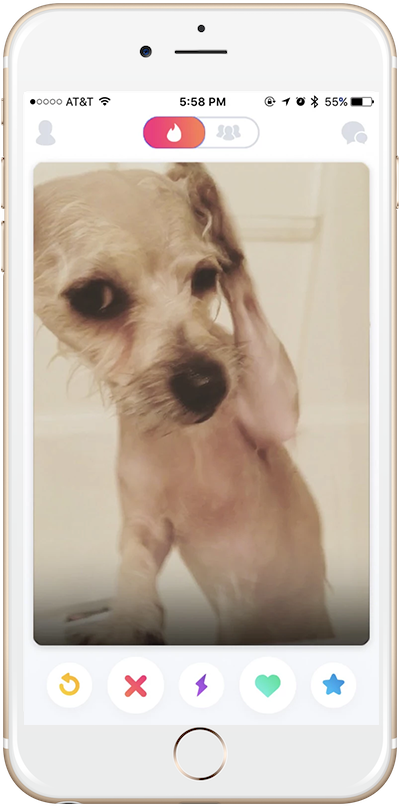
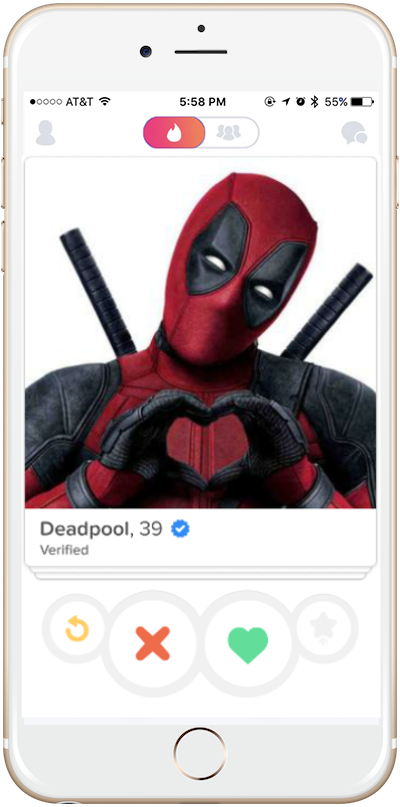
Add files via upload

diff --git a/index.html b/index.html
@@ -3,7 +3,7 @@
 
 <head>
   <meta charset="utf-8">
-  <title>TinDog</title>
+  <title>TinDoor</title>
   <!-- CSS only -->
   <link href="https://cdn.jsdelivr.net/npm/bootstrap@5.0.0-beta2/dist/css/bootstrap.min.css" rel="stylesheet" integrity="sha384-BmbxuPwQa2lc/FVzBcNJ7UAyJxM6wuqIj61tLrc4wSX0szH/Ev+nYRRuWlolflfl" crossorigin="anonymous">
   <!-- google fonts -->
@@ -30,7 +30,7 @@
 
       <!-- Nav Bar -->
       <nav class="navbar navbar-expand-lg navbar-dark">
-        <a class="navbar-brand" href="">tindog</a>
+        <a class="navbar-brand" href="">tindoor</a>
         <button class="navbar-toggler" type="button" data-bs-toggle="collapse" data-bs-target="#navbarSupportedContent" aria-controls="navbarSupportedContent" aria-expanded="false" aria-label="Toggle navigation">
           <span class="navbar-toggler-icon"></span></button>
         <div class="collapse navbar-collapse" id="navbarSupportedContent">
@@ -54,7 +54,7 @@
 
       <div class="row">
         <div class="col-lg-6">
-          <h1>Meet new and interesting dogs nearby.</h1>
+          <h1>Meet new and interesting super-heroes nearby.</h1>
           <button type="button" class="btn btn-dark btn-lg download-button"><i class="fab fa-apple"></i> Download</button>
           <button type="button" class="btn btn-outline-light btn-lg download-button"><i class="fab fa-google-play"></i> Download</button>
         </div>
@@ -79,12 +79,12 @@
       <div class="feature-box col-lg-4">
         <i class="icon fas fa-bullseye fa-4x"></i>
         <h3>Elite Clientele</h3>
-        <p>We have all the dogs, the greatest dogs.</p>
+        <p>We have all heroes, the greatest heroes.</p>
       </div>
       <div class="feature-box col-lg-4">
         <i class="icon fas fa-heart fa-4x"></i>
         <h3>Guaranteed to work.</h3>
-        <p>Find the love of your dog's life or your money back.</p>
+        <p>Find the love of you or your money back.</p>
       </div>
     </div>
   </section>
@@ -97,14 +97,14 @@
     <div id="testimonial-carousel" class="carousel slide" data-ride="false">
       <div class="carousel-inner">
         <div class="carousel-item active">
-          <h2>I no longer have to sniff other dogs for love. I've found the hottest Corgi on TinDog. Woof.</h2>
-          <img class="testimonial-image" src="images/dog-img.jpg" alt="dog-profile">
-          <em>Pebbles, New York</em>
+          <h2>I no longer have to create an AI robot for love. I've found Pepper potts on TinDoor.</h2>
+          <img class="testimonial-image" src="images/ironman.png" alt="hero-profile">
+          <em>Tony stark, California</em>
         </div>
         <div class="carousel-item">
-          <h2 class="testimonial-text">My dog used to be so lonely, but with TinDog's help, they've found the love of their life. I think.</h2>
-          <img class="testimonial-image" src="images/lady-img.jpg" alt="lady-profile">
-          <em>Beverly, Illinois</em>
+          <h2 class="testimonial-text">I used to be so lonely after swinging thorugh the city, but with TinDoor's help, I've found MJ.</h2>
+          <img class="testimonial-image" src="images/peter.png" alt="hero-profile">
+          <em>Peter parker, New york</em>
 
         </div>
 
@@ -136,14 +136,14 @@
 
   <section id="pricing">
 
-    <h2>A Plan for Every Dog's Needs</h2>
-    <p>Simple and affordable price plans for your and your dog.</p>
+    <h2>A Plan for Every hero's Needs</h2>
+    <p>Simple and affordable price plans for you.</p>
 
     <div class="row">
       <div class="pricing-column col-lg-4 col-md-6">
         <div class="card">
           <div class="card-header">
-            <h3>Chihuahua</h3>
+            <h3>Human</h3>
           </div>
           <div class="card-body">
             <h2>Free</h2>
@@ -157,7 +157,7 @@
       <div class="pricing-column col-lg-4 col-md-6">
         <div class="card">
           <div class="card-header">
-            <h3>Labrador</h3>
+            <h3>Super-Human</h3>
           </div>
           <div class="card-body">
             <h2>$49 / mo</h2>
@@ -171,7 +171,7 @@
       <div class="pricing-column col-lg-4">
         <div class="card">
           <div class="card-header">
-            <h3>Mastiff</h3>
+            <h3>Immortal</h3>
           </div>
           <div class="card-body">
             <h2>$99 / mo</h2>
@@ -193,7 +193,7 @@
 
   <section id="cta">
 
-    <h3 class="cta-heading">Find the True Love of Your Dog's Life Today.</h3>
+    <h3 class="cta-heading">Find the True Love of Your Life Today.</h3>
     <button type="button" class="download-button btn btn-lg btn-dark"><i class="fab fa-apple"></i>Download</button>
     <button type="button" class="download-button btn btn-lg btn-light" ><i class="fab fa-google-play"></i>Download</button>
 
@@ -208,7 +208,7 @@
     <i class="social-icon fab fa-instagram"></i>
     <i class="social-icon fas fa-envelope"></i>
 
-    <p>© Copyright TinDog</p>
+    <p>© Copyright TinDoor</p>
 
   </footer>
 

diff --git a/css/styles.css b/css/styles.css
@@ -74,7 +74,7 @@ p{
 
 .feature-box{
   text-align: center;
-  padding: 5%;
+  padding: 3%;
 }
 
 .icon{
